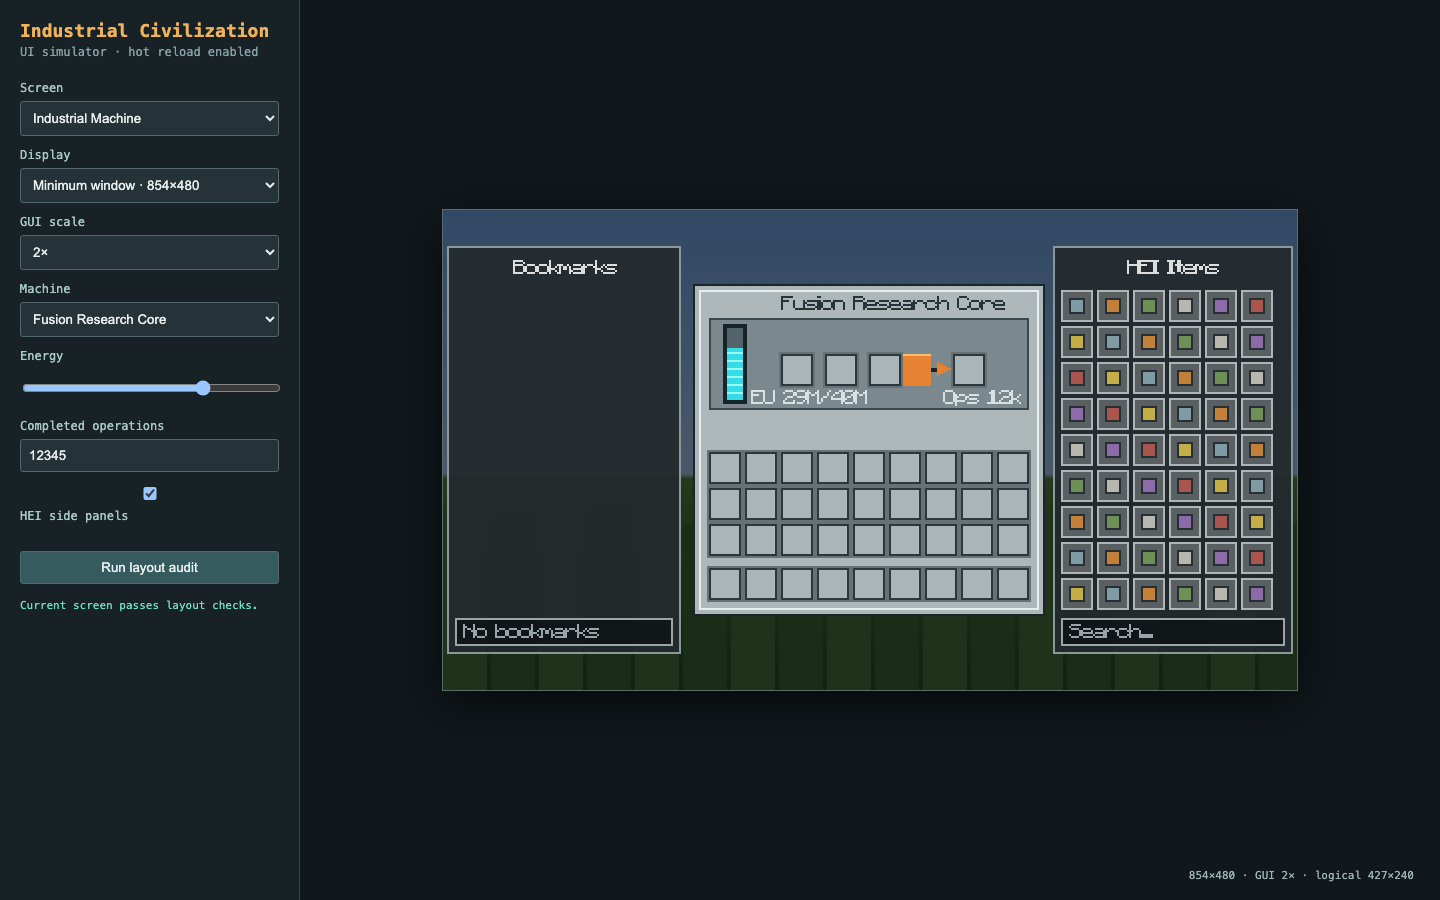
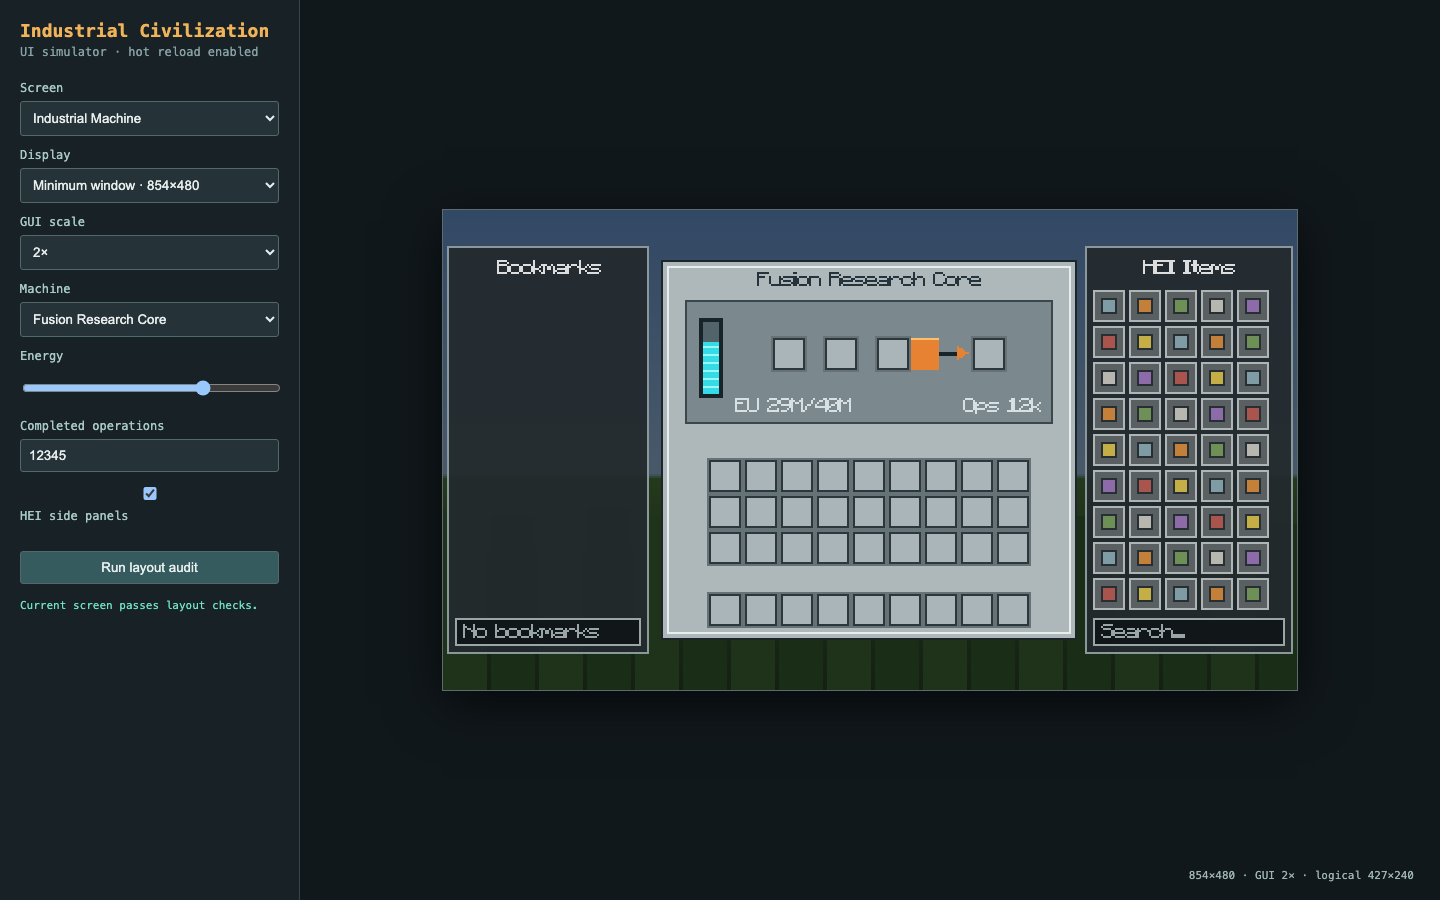
Expand industrial machine workspace

Changed region(s): [[0.3438, 0.2489, 0.9062, 0.7156]]

diff --git a/tools/ui_simulator/app.js b/tools/ui_simulator/app.js
@@ -304,29 +304,29 @@ function renderSpaceMap(d, auditScreen = "spacemap") {
 }
 
 function machineLayout(d, machine, energyPercent, operations, auditScreen = "machine") {
-  const gui = {x: Math.floor((d.width - 176) / 2), y: Math.floor((d.height - 166) / 2), w: 176, h: 166};
-  if (!contained(gui, {x: 0, y: 0, w: d.width, h: d.height})) issue(auditScreen, "176×166 machine panel does not fit the logical viewport", gui);
+  const gui = {x: Math.floor((d.width - 208) / 2), y: Math.floor((d.height - 190) / 2), w: 208, h: 190};
+  if (!contained(gui, {x: 0, y: 0, w: d.width, h: d.height})) issue(auditScreen, "208×190 machine panel does not fit the logical viewport", gui);
   const title = data.lang[`tile.industrialcivilizationcore.${machine.id}.name`] || machine.id;
-  const shownTitle = trim(title, 136);
+  const shownTitle = trim(title, 184);
   const energy = Math.round(machine.capacity * energyPercent / 100);
   const energyText = `EU ${compactNumber(energy)}/${compactNumber(machine.capacity)}`;
   const operationsText = `Ops ${compactNumber(operations)}`;
-  const energyBox = {x: 29, y: 53, w: textWidth(energyText), h: 9};
-  const opsBox = {x: 164 - textWidth(operationsText), y: 53, w: textWidth(operationsText), h: 9};
-  const darkProcessPanel = {x: 8, y: 17, w: 160, h: 46};
-  const energyMeter = {x: 15, y: 20, w: 12, h: 40};
-  const inputSlot = {x: 87, y: 34, w: 18, h: 18};
-  const progressFill = {x: 105, y: 35, w: 23, h: 16};
-  const outputSlot = {x: 129, y: 34, w: 18, h: 18};
-  if (overlap(energyBox, opsBox)) issue(auditScreen, `${machine.id}: energy and operation labels overlap`, {x: gui.x + 29, y: gui.y + 53, w: 135, h: 9});
-  if (!contained(energyBox, darkProcessPanel) || !contained(opsBox, darkProcessPanel)) issue(auditScreen, `${machine.id}: status text escapes the dark process panel`, {x: gui.x + 8, y: gui.y + 17, w: 160, h: 46});
-  if (!contained(energyMeter, darkProcessPanel)) issue(auditScreen, `${machine.id}: energy gauge escapes the dark process panel`, {x: gui.x + 15, y: gui.y + 20, w: 12, h: 40});
+  const energyBox = {x: 37, y: 69, w: textWidth(energyText), h: 9};
+  const opsBox = {x: 190 - textWidth(operationsText), y: 69, w: textWidth(operationsText), h: 9};
+  const darkProcessPanel = {x: 12, y: 20, w: 184, h: 62};
+  const energyMeter = {x: 19, y: 29, w: 12, h: 40};
+  const inputSlot = {x: 107, y: 38, w: 18, h: 18};
+  const progressFill = {x: 125, y: 39, w: 23, h: 16};
+  const outputSlot = {x: 155, y: 38, w: 18, h: 18};
+  if (overlap(energyBox, opsBox)) issue(auditScreen, `${machine.id}: energy and operation labels overlap`, {x: gui.x + 37, y: gui.y + 69, w: 153, h: 9});
+  if (!contained(energyBox, darkProcessPanel) || !contained(opsBox, darkProcessPanel)) issue(auditScreen, `${machine.id}: status text escapes the dark process panel`, {x: gui.x + 12, y: gui.y + 20, w: 184, h: 62});
+  if (!contained(energyMeter, darkProcessPanel)) issue(auditScreen, `${machine.id}: energy gauge escapes the dark process panel`, {x: gui.x + 19, y: gui.y + 29, w: 12, h: 40});
   const gaugeTopClearance = energyMeter.y - darkProcessPanel.y;
   const gaugeBottomClearance = darkProcessPanel.y + darkProcessPanel.h - energyMeter.y - energyMeter.h;
-  if (gaugeTopClearance < 3 || gaugeBottomClearance < 3) issue(auditScreen, `${machine.id}: energy gauge lacks dark-panel edge clearance`, {x: gui.x + 15, y: gui.y + 17, w: 12, h: 46});
-  if (overlap(energyBox, energyMeter)) issue(auditScreen, `${machine.id}: energy text overlaps the energy meter`, {x: gui.x + 15, y: gui.y + 20, w: 12, h: 40});
-  if (overlap(progressFill, inputSlot) || overlap(progressFill, outputSlot)) issue(auditScreen, `${machine.id}: progress connector overlaps an item slot`, {x: gui.x + 87, y: gui.y + 34, w: 60, h: 18});
-  return {gui, title: shownTitle, titleX: 32 + (136 - textWidth(shownTitle)) / 2,
+  if (gaugeTopClearance < 8 || gaugeBottomClearance < 8) issue(auditScreen, `${machine.id}: energy gauge lacks dark-panel edge clearance`, {x: gui.x + 19, y: gui.y + 20, w: 12, h: 62});
+  if (overlap(energyBox, energyMeter)) issue(auditScreen, `${machine.id}: energy text overlaps the energy meter`, {x: gui.x + 19, y: gui.y + 29, w: 12, h: 40});
+  if (overlap(progressFill, inputSlot) || overlap(progressFill, outputSlot)) issue(auditScreen, `${machine.id}: progress connector overlaps an item slot`, {x: gui.x + 107, y: gui.y + 38, w: 66, h: 18});
+  return {gui, title: shownTitle, titleX: 12 + (184 - textWidth(shownTitle)) / 2,
     energyText, operationsText, energyBox, opsBox, energy, progress: .62};
 }
 
@@ -341,13 +341,13 @@ function renderMachine(d, machineOverride, auditScreen) {
     if (leftW >= 64) renderHeiPanel(2, 18, leftW - 4, d.height - 36, "Bookmarks", false);
     if (d.width - rightX >= 64) renderHeiPanel(rightX, 18, d.width - rightX - 2, d.height - 36, "HEI Items", true);
   }
-  ctx.drawImage(machineTexture, 0, 0, 176, 166, gui.x, gui.y, 176, 166);
+  ctx.drawImage(machineTexture, 0, 0, 208, 190, gui.x, gui.y, 208, 190);
   const energyHeight = Math.floor(36 * state.energy / machine.capacity);
-  if (energyHeight > 0) ctx.drawImage(machineTexture, 176, 36 - energyHeight, 8, energyHeight, gui.x + 17, gui.y + 58 - energyHeight, 8, energyHeight);
-  ctx.drawImage(machineTexture, 176, 49, Math.floor(23 * state.progress), 16, gui.x + 105, gui.y + 35, Math.floor(23 * state.progress), 16);
+  if (energyHeight > 0) ctx.drawImage(machineTexture, 208, 36 - energyHeight, 8, energyHeight, gui.x + 21, gui.y + 67 - energyHeight, 8, energyHeight);
+  ctx.drawImage(machineTexture, 208, 49, Math.floor(23 * state.progress), 16, gui.x + 125, gui.y + 39, Math.floor(23 * state.progress), 16);
   drawText(state.title, gui.x + state.titleX, gui.y + 6, "#25333a");
-  drawText(state.energyText, gui.x + state.energyBox.x, gui.y + 53, "#d7e0e3");
-  drawText(state.operationsText, gui.x + state.opsBox.x, gui.y + 53, "#d7e0e3");
+  drawText(state.energyText, gui.x + state.energyBox.x, gui.y + 69, "#d7e0e3");
+  drawText(state.operationsText, gui.x + state.opsBox.x, gui.y + 69, "#d7e0e3");
 }
 
 function factionDetail(faction, width) {

diff --git a/tools/validate_runtime_content.py b/tools/validate_runtime_content.py
@@ -81,19 +81,21 @@ for block_id in sorted(block_ids):
 gui = Image.open(ASSETS / "textures/gui/industrial_machine.png")
 check(gui.size == (256, 256), "machine GUI atlas is 256x256")
 check(gui.getpixel((0, 0))[3] == 255, "machine GUI window is opaque")
+check(gui.getpixel((207, 189))[3] == 255 and gui.getpixel((207, 190))[3] == 0,
+      "machine workspace uses the enlarged 208x190 canvas")
 check(gui.getpixel((200, 200))[3] == 0, "unused GUI atlas area is transparent")
-check(gui.getpixel((176, 0))[3] == 255, "energy overlay strip exists")
-check(gui.getpixel((15, 18))[:3] == (123, 137, 142)
-      and gui.getpixel((15, 19))[:3] == (123, 137, 142)
-      and gui.getpixel((15, 20))[:3] == (23, 36, 42),
-      "energy gauge housing leaves two dark-panel pixels above it")
-check(gui.getpixel((17, 22))[:3] == (82, 99, 106)
-      and gui.getpixel((17, 57))[:3] == (82, 99, 106),
+check(gui.getpixel((208, 0))[3] == 255, "energy overlay strip exists")
+check(gui.getpixel((19, 21))[:3] == (123, 137, 142)
+      and gui.getpixel((19, 28))[:3] == (123, 137, 142)
+      and gui.getpixel((19, 29))[:3] == (23, 36, 42),
+      "energy gauge housing has generous dark-panel clearance above it")
+check(gui.getpixel((21, 31))[:3] == (82, 99, 106)
+      and gui.getpixel((21, 66))[:3] == (82, 99, 106),
       "energy gauge interior is vertically contained by the process panel")
-check(gui.getpixel((15, 60))[:3] == (123, 137, 142)
-      and gui.getpixel((15, 61))[:3] == (123, 137, 142),
-      "energy gauge housing leaves two dark-panel pixels below it")
-check(gui.getpixel((176, 49))[3] == 255, "progress overlay strip exists")
+check(gui.getpixel((19, 69))[:3] == (123, 137, 142)
+      and gui.getpixel((19, 80))[:3] == (123, 137, 142),
+      "energy gauge housing has generous dark-panel clearance below it")
+check(gui.getpixel((208, 49))[3] == 255, "progress overlay strip exists")
 
 title_logo = Image.open(ASSETS / "textures/mainmenu/industrial_civilization_logo.png").convert("RGBA")
 title_mask = Image.open(ROOT / "resources/industrialcivilizationcore/textures/mainmenu/industrial_civilization_logo_mask.png").convert("L")
@@ -120,11 +122,19 @@ check(quest_home.getpixel((0, 0))[3] == 255,
       "Better Questing home backdrop remains opaque")
 check(all(quest_home.getpixel(point)[3] == 0 for point in ((0, 256), (511, 256), (0, 511), (511, 511))),
       "Better Questing title layer uses the transparent plaque cutout")
-check(gui.getpixel((128, 42))[:3] == (231, 130, 50)
-      and gui.getpixel((129, 42))[:3] == (101, 114, 120),
+check(gui.getpixel((153, 46))[:3] == (231, 130, 50)
+      and gui.getpixel((154, 46))[:3] == (123, 137, 142),
       "process arrow ends before the output item-slot border")
 
 source = "\n".join(path.read_text() for path in JAVA.glob("*.java"))
+machine_gui_source = (JAVA / "GuiIndustrialMachine.java").read_text()
+machine_container_source = (JAVA / "ContainerIndustrialMachine.java").read_text()
+check("xSize = 208" in machine_gui_source and "ySize = 190" in machine_gui_source
+      and "TITLE_WIDTH = 184" in machine_gui_source,
+      "machine GUI uses the enlarged breathing-room workspace")
+check("24 + col * 18, 100 + row * 18" in machine_container_source
+      and "24 + col * 18, 167" in machine_container_source,
+      "player inventory remains centered inside the enlarged workspace")
 check("ItemTestPlaceholder" not in source, "runtime registrations do not reference placeholder items")
 check("EnergyTileLoadEvent" in source and "IEnergySink" in source, "machines register with the IC2 EU network")
 check("CapabilityEnergy.ENERGY" in source, "machines also expose Forge Energy input")

diff --git a/development/IndustrialCivilizationCore/src/main/java/com/industrialcivilization/core/GuiIndustrialMachine.java b/development/IndustrialCivilizationCore/src/main/java/com/industrialcivilization/core/GuiIndustrialMachine.java
@@ -5,15 +5,15 @@ import net.minecraft.entity.player.InventoryPlayer;
 import net.minecraft.util.ResourceLocation;
 
 public final class GuiIndustrialMachine extends GuiContainer {
-    private static final int TITLE_LEFT = 32;
-    private static final int TITLE_WIDTH = 136;
-    private static final int STATUS_LEFT = 29;
-    private static final int STATUS_RIGHT = 164;
-    private static final int STATUS_Y = 53;
+    private static final int TITLE_LEFT = 12;
+    private static final int TITLE_WIDTH = 184;
+    private static final int STATUS_LEFT = 37;
+    private static final int STATUS_RIGHT = 190;
+    private static final int STATUS_Y = 69;
     private static final int STATUS_COLOR = 0xD7E0E3;
     private static final int ENERGY_BAR_HEIGHT = 36;
-    private static final int ENERGY_BAR_BOTTOM = 58;
-    private static final int PROGRESS_LEFT = 105;
+    private static final int ENERGY_BAR_BOTTOM = 67;
+    private static final int PROGRESS_LEFT = 125;
     private static final int PROGRESS_WIDTH = 23;
     private static final ResourceLocation TEXTURE = new ResourceLocation(
         IndustrialCivilizationCore.MODID, "textures/gui/industrial_machine.png");
@@ -22,8 +22,8 @@ public final class GuiIndustrialMachine extends GuiContainer {
     public GuiIndustrialMachine(InventoryPlayer inventory, TileIndustrialMachine tile) {
         super(new ContainerIndustrialMachine(inventory, tile));
         this.tile = tile;
-        xSize = 176;
-        ySize = 166;
+        xSize = 208;
+        ySize = 190;
     }
 
     @Override
@@ -62,11 +62,11 @@ public final class GuiIndustrialMachine extends GuiContainer {
 
         int energyHeight = tile.getCapacity() <= 0 ? 0
             : (int) ((long) ENERGY_BAR_HEIGHT * tile.getEnergyStored() / tile.getCapacity());
-        drawTexturedModalRect(left + 17, top + ENERGY_BAR_BOTTOM - energyHeight,
-            176, ENERGY_BAR_HEIGHT - energyHeight, 8, energyHeight);
+        drawTexturedModalRect(left + 21, top + ENERGY_BAR_BOTTOM - energyHeight,
+            208, ENERGY_BAR_HEIGHT - energyHeight, 8, energyHeight);
         int progressWidth = tile.getDuration() <= 0 ? 0
             : PROGRESS_WIDTH * tile.getProgress() / tile.getDuration();
-        drawTexturedModalRect(left + PROGRESS_LEFT, top + 35,
-            176, 49, progressWidth, 16);
+        drawTexturedModalRect(left + PROGRESS_LEFT, top + 39,
+            208, 49, progressWidth, 16);
     }
 }

diff --git a/tools/generate_ic2_assets.py b/tools/generate_ic2_assets.py
@@ -393,23 +393,21 @@ def slot(draw, x, y):
 
 def make_gui():
     image = Image.new("RGBA", (256, 256), (0, 0, 0, 0)); d = ImageDraw.Draw(image)
-    d.rectangle((0, 0, 175, 165), fill="#aeb8ba", outline="#1c2529")
-    d.rectangle((3, 3, 172, 162), outline="#e8eeee")
-    d.rectangle((8, 17, 167, 62), fill="#7b898e", outline="#3a484d")
-    for x in (44, 66, 88, 130): slot(d, x - 1, 34)
-    d.line((105, 42, 122, 42), fill=PALETTE["dark"], width=2)
-    d.polygon([(122, 39), (128, 42), (122, 45)], fill=PALETTE["orange"])
-    # Keep the complete gauge housing inside the dark process panel. The old
-    # 50px housing began at y=10 and visibly protruded into the light header.
-    d.rectangle((15, 20, 26, 59), fill=PALETTE["dark"])
-    d.rectangle((17, 22, 24, 57), fill="#52636a")
+    d.rectangle((0, 0, 207, 189), fill="#aeb8ba", outline="#1c2529")
+    d.rectangle((3, 3, 204, 186), outline="#e8eeee")
+    d.rectangle((12, 20, 195, 81), fill="#7b898e", outline="#3a484d")
+    for x in (56, 82, 108, 156): slot(d, x - 1, 38)
+    d.line((125, 46, 147, 46), fill=PALETTE["dark"], width=2)
+    d.polygon([(148, 43), (153, 46), (148, 49)], fill=PALETTE["orange"])
+    d.rectangle((19, 29, 30, 68), fill=PALETTE["dark"])
+    d.rectangle((21, 31, 28, 66), fill="#52636a")
     for row in range(3):
-        for col in range(9): slot(d, 7 + col * 18, 83 + row * 18)
-    for col in range(9): slot(d, 7 + col * 18, 141)
-    d.rectangle((176, 0, 183, 35), fill=PALETTE["cyan"])
-    for y in range(0, 36, 4): d.line((176, y, 183, y), fill=PALETTE["cyan2"])
-    d.rectangle((176, 49, 198, 64), fill=PALETTE["orange"])
-    d.line((176, 49, 198, 49), fill="#ffc06b")
+        for col in range(9): slot(d, 23 + col * 18, 99 + row * 18)
+    for col in range(9): slot(d, 23 + col * 18, 166)
+    d.rectangle((208, 0, 215, 35), fill=PALETTE["cyan"])
+    for y in range(0, 36, 4): d.line((208, y, 215, y), fill=PALETTE["cyan2"])
+    d.rectangle((208, 49, 230, 64), fill=PALETTE["orange"])
+    d.line((208, 49, 230, 49), fill="#ffc06b")
     image.save(GUI / "industrial_machine.png")
 
 

diff --git a/development/IndustrialCivilizationCore/src/main/java/com/industrialcivilization/core/ContainerIndustrialMachine.java b/development/IndustrialCivilizationCore/src/main/java/com/industrialcivilization/core/ContainerIndustrialMachine.java
@@ -13,18 +13,18 @@ public final class ContainerIndustrialMachine extends Container {
 
     public ContainerIndustrialMachine(InventoryPlayer playerInventory, TileIndustrialMachine tile) {
         this.tile = tile;
-        addSlotToContainer(new Slot(tile, 0, 44, 35));
-        addSlotToContainer(new Slot(tile, 1, 66, 35));
-        addSlotToContainer(new Slot(tile, 2, 88, 35));
-        addSlotToContainer(new SlotOutput(tile, 3, 130, 35));
+        addSlotToContainer(new Slot(tile, 0, 56, 39));
+        addSlotToContainer(new Slot(tile, 1, 82, 39));
+        addSlotToContainer(new Slot(tile, 2, 108, 39));
+        addSlotToContainer(new SlotOutput(tile, 3, 156, 39));
         for (int row = 0; row < 3; row++) {
             for (int col = 0; col < 9; col++) {
                 addSlotToContainer(new Slot(playerInventory, col + row * 9 + 9,
-                    8 + col * 18, 84 + row * 18));
+                    24 + col * 18, 100 + row * 18));
             }
         }
         for (int col = 0; col < 9; col++) {
-            addSlotToContainer(new Slot(playerInventory, col, 8 + col * 18, 142));
+            addSlotToContainer(new Slot(playerInventory, col, 24 + col * 18, 167));
         }
     }
 

diff --git a/tools/validate_energy_interop.py b/tools/validate_energy_interop.py
@@ -80,7 +80,7 @@ for path in player_files:
 gui = (JAVA / "GuiIndustrialMachine.java").read_text()
 check('String energy = "EU "' in gui and "IndustrialUiText.compactNumber" in gui,
       "custom machine GUI labels compact machine energy in EU")
-check("trimStringToWidth" in gui and "TITLE_LEFT = 32" in gui,
+check("trimStringToWidth" in gui and "TITLE_LEFT = 12" in gui and "TITLE_WIDTH = 184" in gui,
       "machine GUI keeps long titles clear of the energy meter at small GUI scales")
 check("STATUS_RIGHT - fontRenderer.getStringWidth(operations)" in gui,
       "machine operation status remains right-aligned as its value grows")
